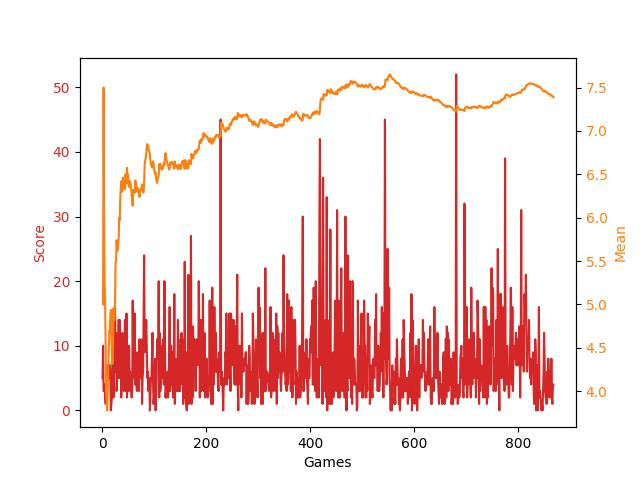
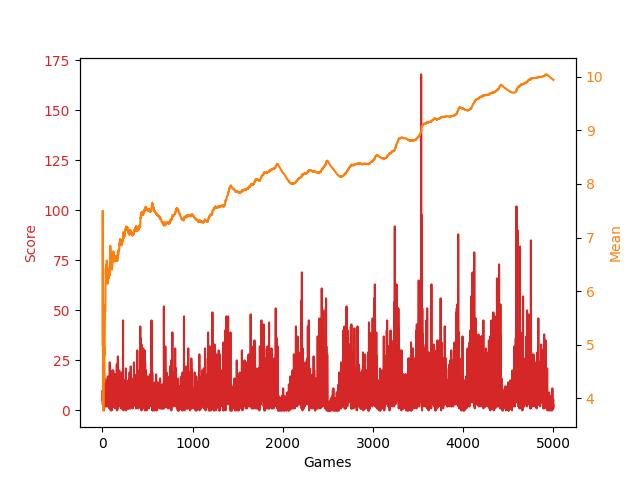
new tests

diff --git a/main.py b/main.py
@@ -174,5 +174,5 @@ class Game():
         learnDuration = endLearnTime - startLearnTime
 
 if __name__ == "__main__":      
-    GamePlay = Game(5000, 0.7, 0.0001, 'test', 'statistics/graphs/test.jpg')
+    GamePlay = Game(5000, 0.6, 0.0001, 'game_dat_06_00001', 'statistics/graphs/DQLearning06_00001.jpg')
     GamePlay.game_loop()
